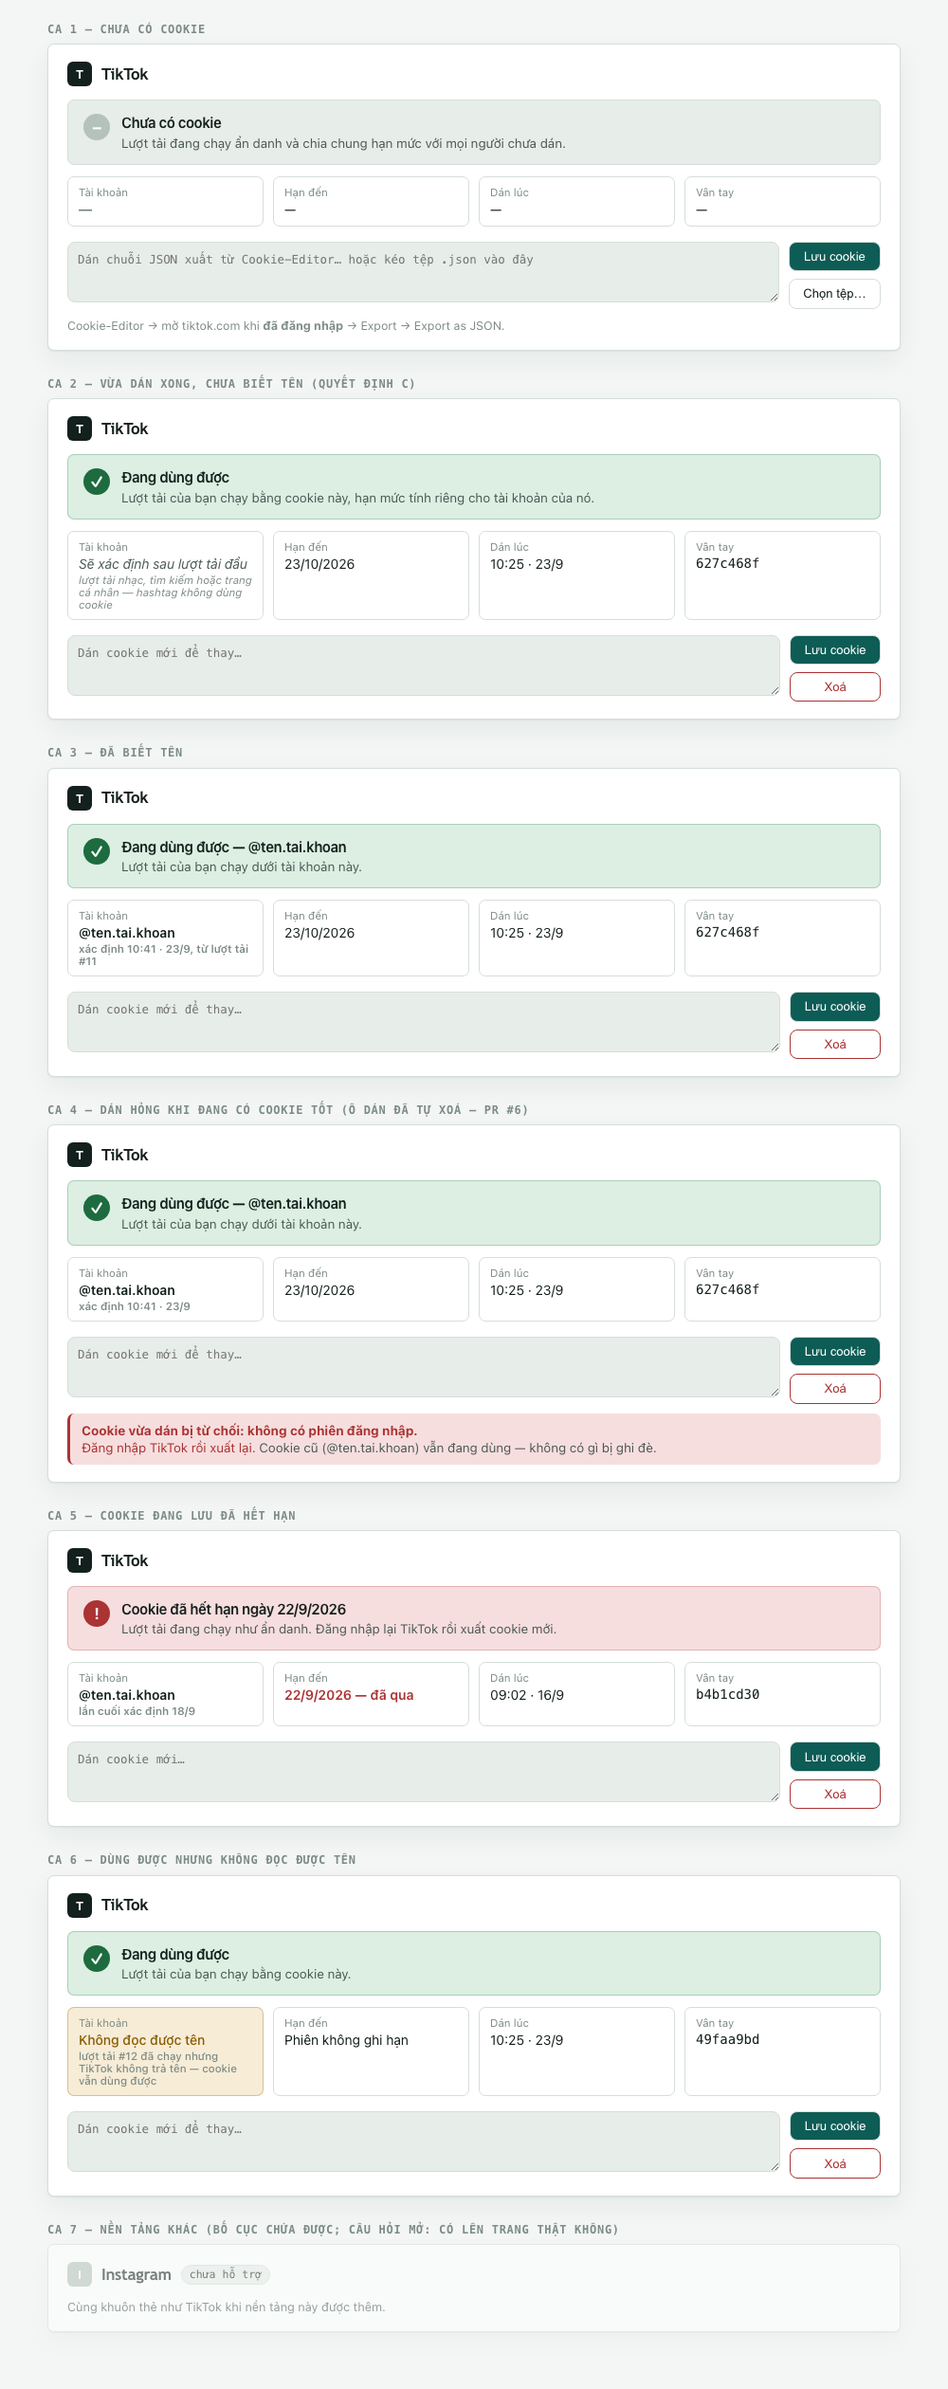
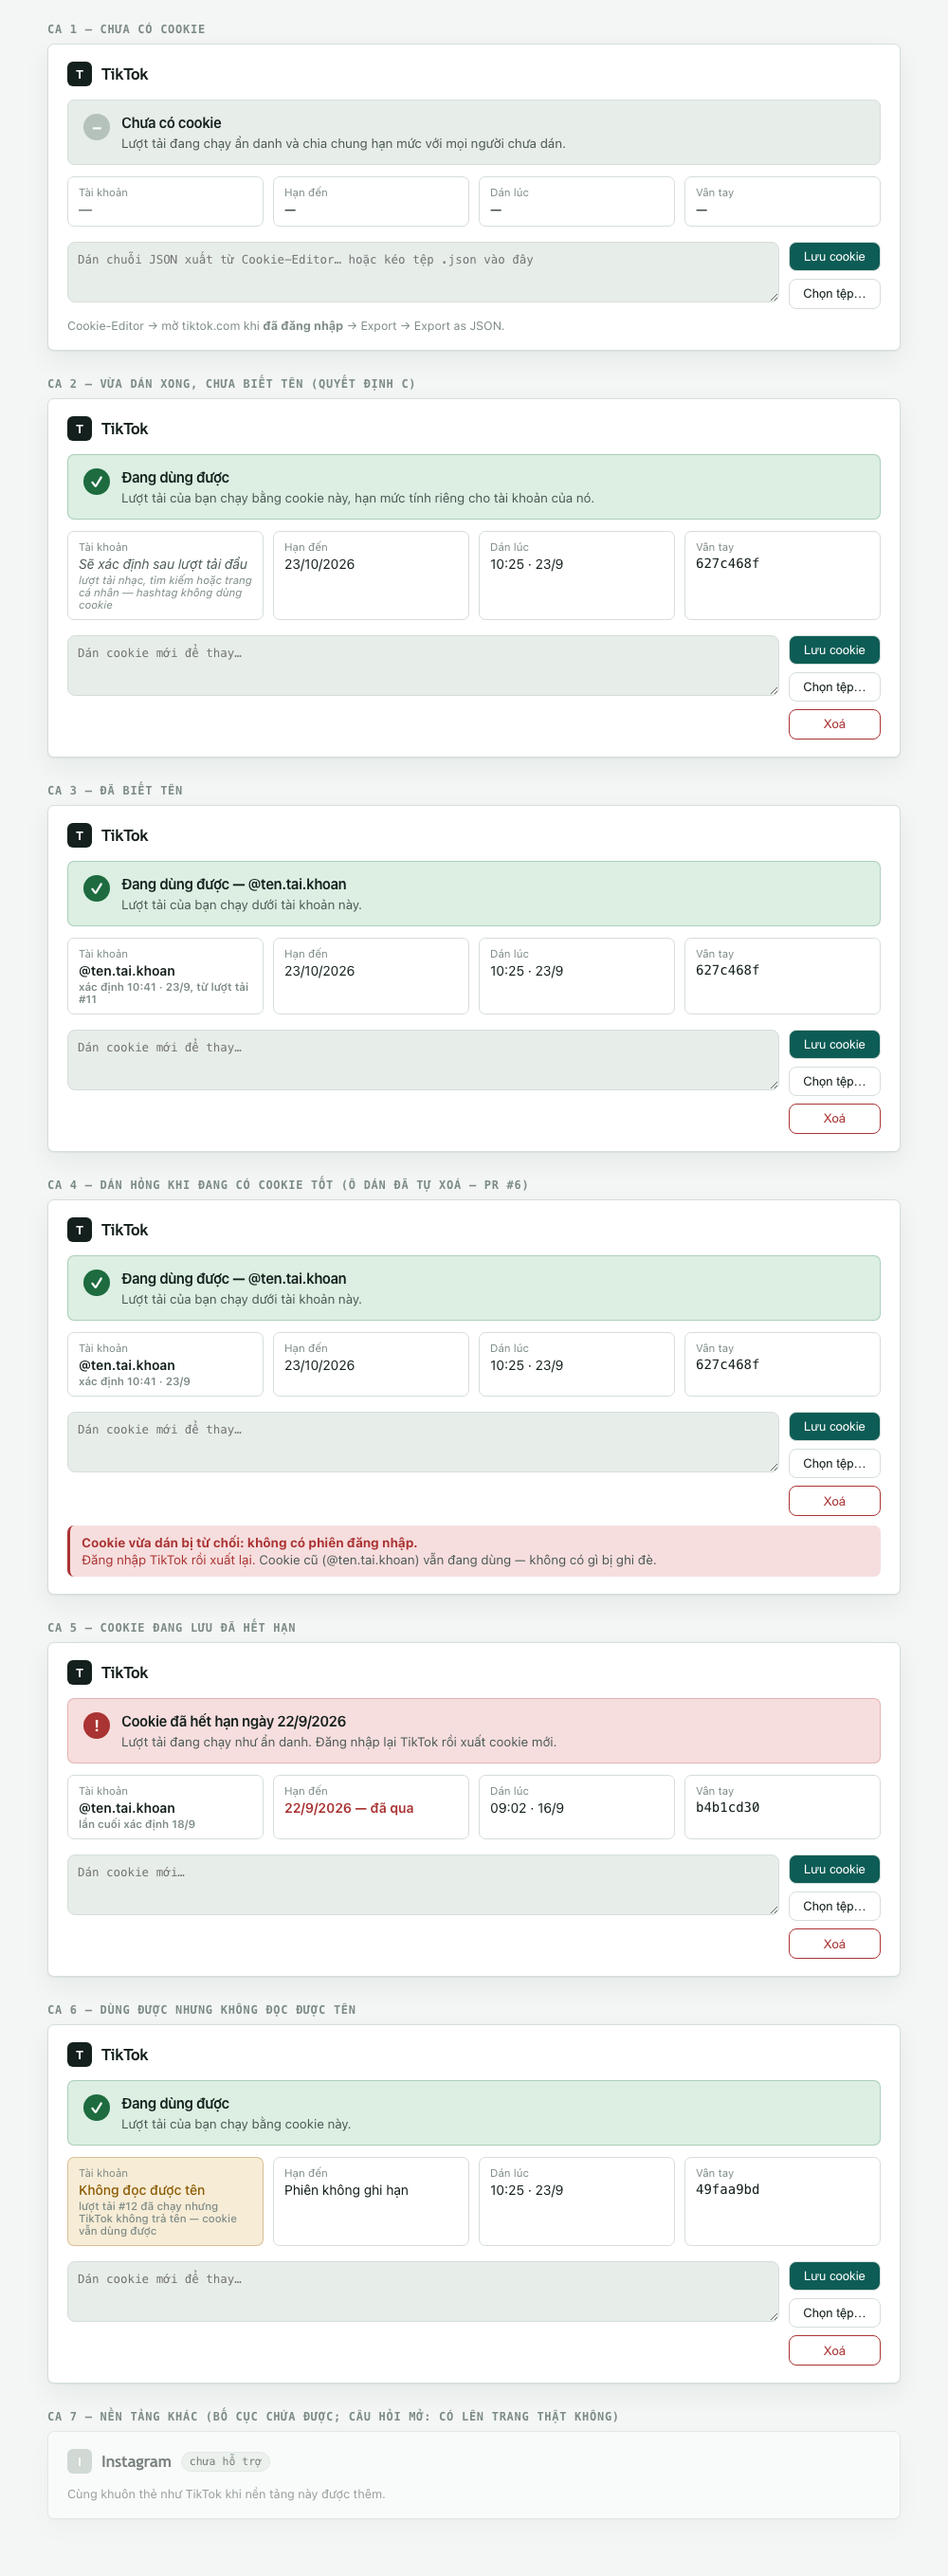
docs(cookie-ui): correct where cookies reach a job, restore the file picker in the mock

diff --git a/plans/260923-1023-cookie-ui/mock-cookie-ui.html b/plans/260923-1023-cookie-ui/mock-cookie-ui.html
@@ -107,14 +107,14 @@
       </div>
       <dl class="o4">
         <div class="o o-cho"><dt>Tài khoản</dt><dd>Sẽ xác định sau lượt tải đầu
-          <small>lượt tải nhạc, tìm kiếm hoặc trang cá nhân — hashtag không dùng cookie</small></dd></div>
+          <small>câu chữ chờ chốt điểm đọc tên (brainstorm §3)</small></dd></div>
         <div class="o"><dt>Hạn đến</dt><dd>23/10/2026</dd></div>
         <div class="o"><dt>Dán lúc</dt><dd>10:25 · 23/9</dd></div>
         <div class="o"><dt>Vân tay</dt><dd class="mono">627c468f</dd></div>
       </dl>
       <div class="dan">
         <textarea placeholder="Dán cookie mới để thay…"></textarea>
-        <div class="dan-nut cookie-actions"><button type="button">Lưu cookie</button><button type="button" class="ghost danger">Xoá</button></div>
+        <div class="dan-nut cookie-actions"><button type="button">Lưu cookie</button><button type="button" class="ghost">Chọn tệp…</button><button type="button" class="ghost danger">Xoá</button></div>
       </div>
     </div>
   </section>
@@ -138,7 +138,7 @@
       </dl>
       <div class="dan">
         <textarea placeholder="Dán cookie mới để thay…"></textarea>
-        <div class="dan-nut cookie-actions"><button type="button">Lưu cookie</button><button type="button" class="ghost danger">Xoá</button></div>
+        <div class="dan-nut cookie-actions"><button type="button">Lưu cookie</button><button type="button" class="ghost">Chọn tệp…</button><button type="button" class="ghost danger">Xoá</button></div>
       </div>
     </div>
   </section>
@@ -161,7 +161,7 @@
       </dl>
       <div class="dan">
         <textarea placeholder="Dán cookie mới để thay…"></textarea>
-        <div class="dan-nut cookie-actions"><button type="button">Lưu cookie</button><button type="button" class="ghost danger">Xoá</button></div>
+        <div class="dan-nut cookie-actions"><button type="button">Lưu cookie</button><button type="button" class="ghost">Chọn tệp…</button><button type="button" class="ghost danger">Xoá</button></div>
       </div>
       <div class="ph" role="alert">
         <b>Cookie vừa dán bị từ chối: không có phiên đăng nhập.</b>
@@ -189,7 +189,7 @@
       </dl>
       <div class="dan">
         <textarea placeholder="Dán cookie mới…"></textarea>
-        <div class="dan-nut cookie-actions"><button type="button">Lưu cookie</button><button type="button" class="ghost danger">Xoá</button></div>
+        <div class="dan-nut cookie-actions"><button type="button">Lưu cookie</button><button type="button" class="ghost">Chọn tệp…</button><button type="button" class="ghost danger">Xoá</button></div>
       </div>
     </div>
   </section>
@@ -213,7 +213,7 @@
       </dl>
       <div class="dan">
         <textarea placeholder="Dán cookie mới để thay…"></textarea>
-        <div class="dan-nut cookie-actions"><button type="button">Lưu cookie</button><button type="button" class="ghost danger">Xoá</button></div>
+        <div class="dan-nut cookie-actions"><button type="button">Lưu cookie</button><button type="button" class="ghost">Chọn tệp…</button><button type="button" class="ghost danger">Xoá</button></div>
       </div>
     </div>
   </section>

diff --git a/plans/260923-1023-cookie-ui/baseline/baseline.md b/plans/260923-1023-cookie-ui/baseline/baseline.md
@@ -39,7 +39,8 @@ rồi lượt hai chỉ in boolean + độ dài. Không in giá trị, không co
   dạng băm, không phải id số).
 - **`multi_sids`** (54 ký tự): trên **cả 2 jar** khớp mẫu `<19 chữ số>:<hex>`, phần hex **trùng `sessionid`** (True ×2),
   số 19 chữ số **không** lặp lại ở cookie nào khác, **hai jar ra hai số khác nhau** (`False` cho "cùng id").
-- ⇒ ĐO ĐƯỢC: mỗi jar mang OFFLINE một **số định danh 19 chữ số gắn với phiên**, khác nhau giữa 2 tài khoản.
+- ⇒ ĐO ĐƯỢC: mỗi jar mang OFFLINE một **số định danh 19 chữ số gắn với phiên**, hai jar (của 2 người dán) ra 2 số khác nhau.
+  ⚠ SỬA 10:50: KHÔNG phân định được "2 tài khoản" với "số đổi theo phiên" — cần 1 tài khoản xuất 2 lần.
 - ⇒ SUY LUẬN (chưa đo): số đó là **user id TikTok**. Đổi số → `@username` **cần hỏi TikTok** (không làm, V105).
 
 ## CHƯA ĐO
